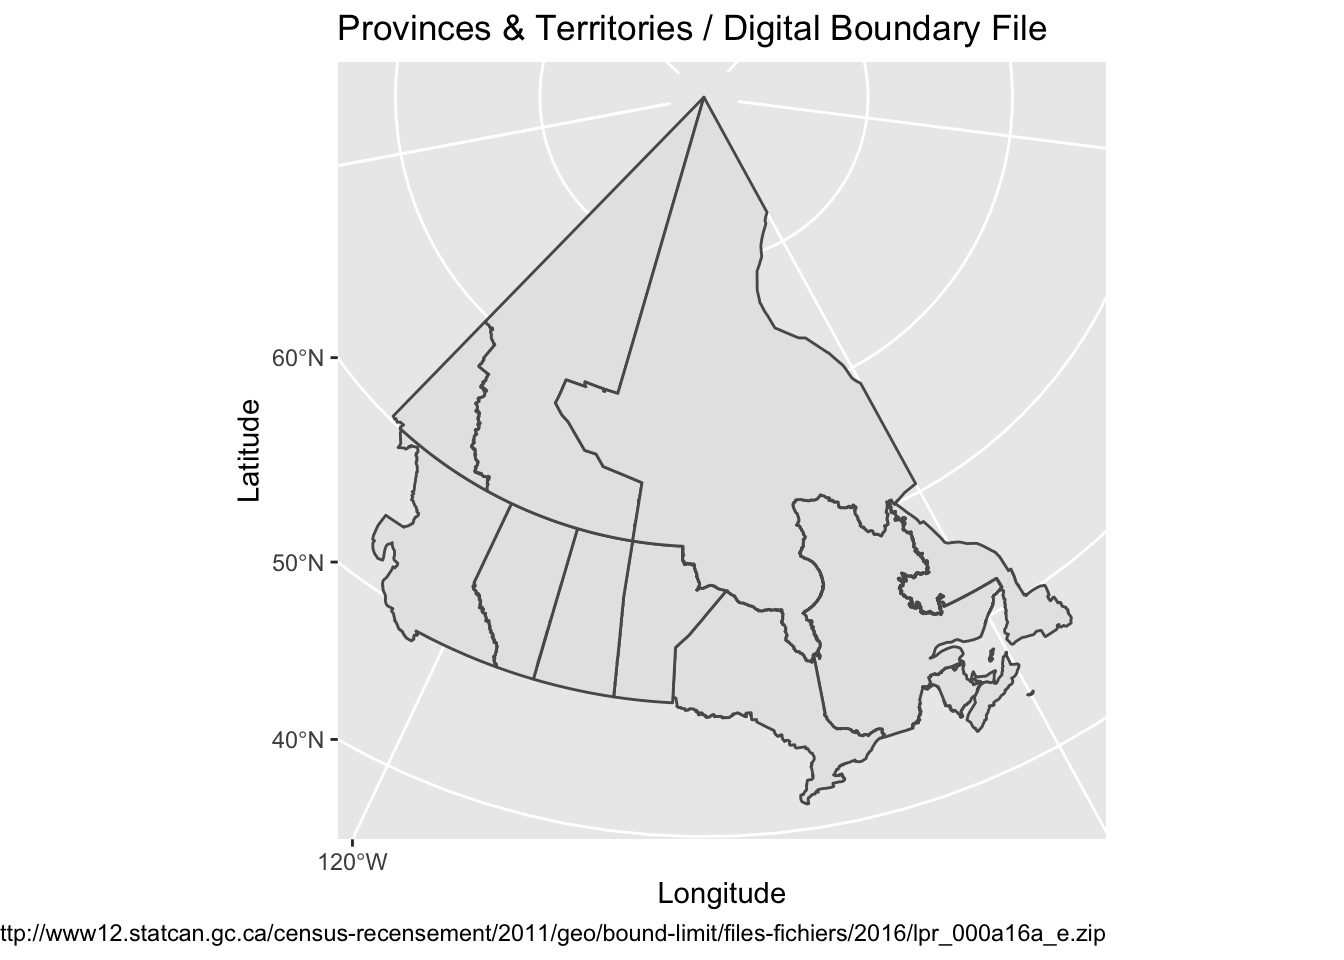
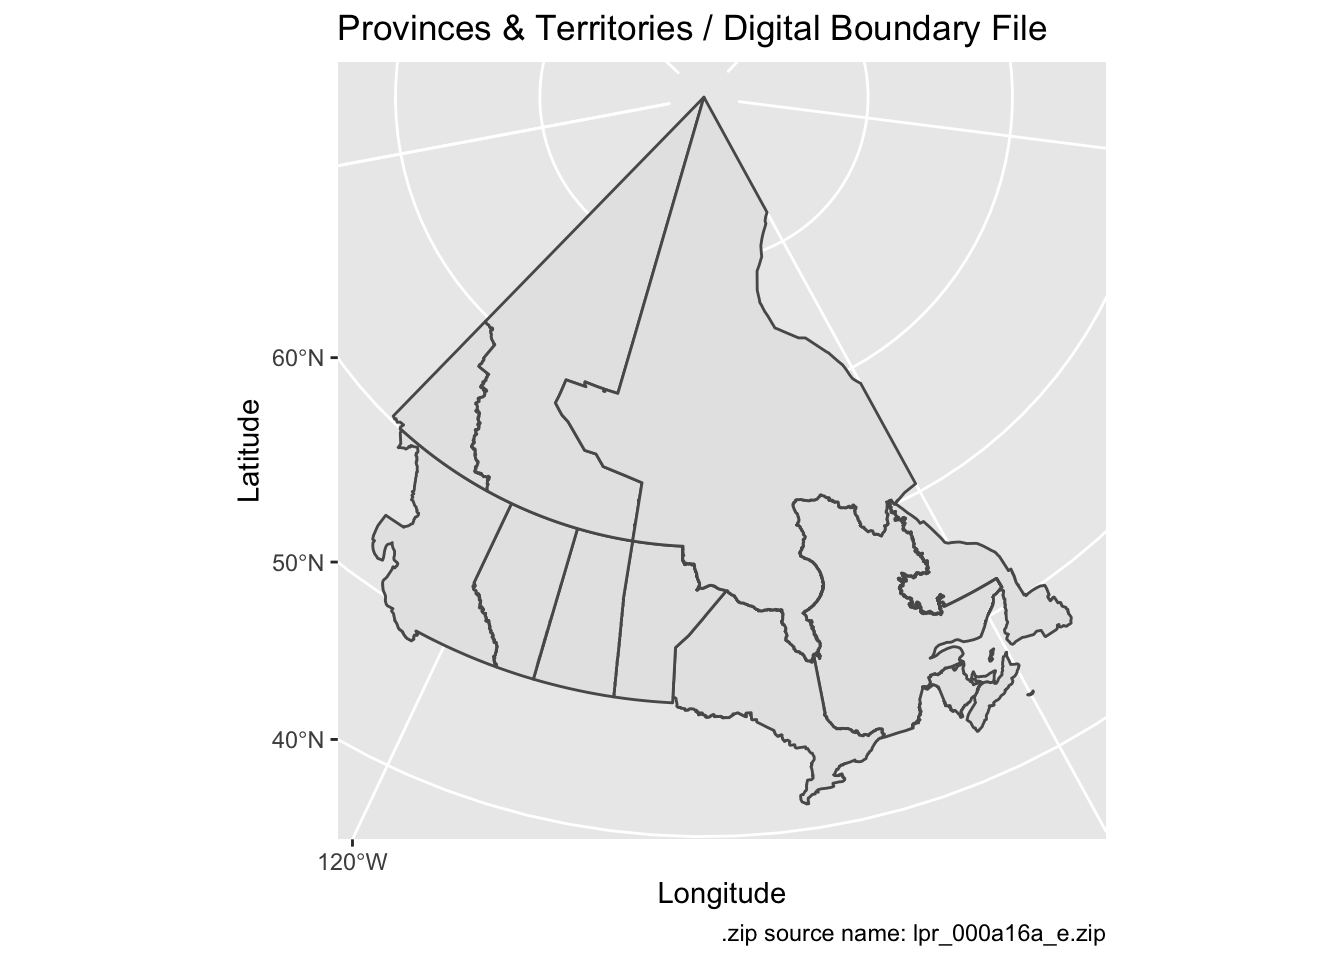
Improve readme

Changed region(s): [[0.0, 0.9688, 0.6875, 1.0]]

diff --git a/README.md b/README.md
@@ -63,34 +63,10 @@ default_shp
 #> [1] "http://www12.statcan.gc.ca/census-recensement/2011/geo/bound-limit/files-fichiers/2016/lpr_000a16a_e.zip"
 
 # then you can download it yourself, or use download_geography(url)
+shp_path <- download_geography(url)
 
-(shp_path <- download_geography(url))
-#> lpr_000a16a_e.zip already downloaded, returning filepath to unzipped .shp.
-#> [1] "/Users/jessetweedle/Documents/github/canmap/geography/lpr_000a16a_e/lpr_000a16a_e.shp"
-
-(provinces <- sf::read_sf(shp_path))
-#> Simple feature collection with 13 features and 6 fields
-#> geometry type:  MULTIPOLYGON
-#> dimension:      XY
-#> bbox:           xmin: 3658201 ymin: 658873 xmax: 9019157 ymax: 6083005
-#> epsg (SRID):    3347
-#> proj4string:    +proj=lcc +lat_1=49 +lat_2=77 +lat_0=63.390675 +lon_0=-91.86666666666666 +x_0=6200000 +y_0=3000000 +ellps=GRS80 +towgs84=0,0,0,0,0,0,0 +units=m +no_defs
-#> # A tibble: 13 x 7
-#>    PRUID PRNAME    PRENAME  PRFNAME  PREABBR PRFABBR                    geometry
-#>    <chr> <chr>     <chr>    <chr>    <chr>   <chr>            <MULTIPOLYGON [m]>
-#>  1 10    Newfound… Newfoun… Terre-N… N.L.    T.-N.-… (((7644465 2980078, 764886…
-#>  2 11    Prince E… Prince … Île-du-… P.E.I.  Î.-P.-… (((8427185 1638777, 842717…
-#>  3 12    Nova Sco… Nova Sc… Nouvell… N.S.    N.-É.   (((8525489 1790548, 852563…
-#>  4 13    New Brun… New Bru… Nouveau… N.B.    N.-B.   (((8188458 1707920, 818844…
-#>  5 24    Quebec /… Quebec   Québec   Que.    Qc      (((7143607 3010209, 714985…
-#>  6 35    Ontario   Ontario  Ontario  Ont.    Ont.    (((6378816 2295412, 637874…
-#>  7 46    Manitoba  Manitoba Manitoba Man.    Man.    (((6039657 2636304, 603962…
-#>  8 47    Saskatch… Saskatc… Saskatc… Sask.   Sask.   (((5248634 2767057, 524928…
-#>  9 48    Alberta   Alberta  Alberta  Alta.   Alb.    (((5228304 2767598, 522809…
-#> 10 59    British … British… Colombi… B.C.    C.-B.   (((4018904 3410247, 401943…
-#> 11 60    Yukon     Yukon    Yukon    Y.T.    Yn      (((4561932 4312865, 456400…
-#> 12 61    Northwes… Northwe… Territo… N.W.T.  T.N.-O. (((5689672 4324508, 568549…
-#> 13 62    Nunavut   Nunavut  Nunavut  Nvt.    Nt      (((7297737 3983558, 731665…
+# and use sf to read the shapefile.
+provinces <- sf::read_sf(shp_path)
 ```
 
 Then input into ggplot + sf:
@@ -100,7 +76,7 @@ ggplot() +
   geom_sf(data = provinces) +
   labs(title = "Provinces & Territories / Digital Boundary File", 
        x = "Longitude", y = "Latitude",
-       caption = paste0("Source: ", url))
+       caption = paste0(".zip source name: ", default_shp$filepath, ".zip"))
 ```
 
 <img src="man/figures/README-unnamed-chunk-2-1.png" width="100%" />
@@ -187,7 +163,22 @@ codes: `lpr_000a16a_e.zip` has the english province/territory maps and
 difference, AFAIK, is that the guide and geography names are in french
 in the french version.
 
-## Notes
+## Notes & Other Packages
+
+There are some other great packages to make Canadian maps\!
+
+  - [cancensus](https://github.com/mountainMath/cancensus) (R package
+    available from CRAN + github)
+  - [censusmapper.ca](censusmapper.ca) (from the same ppl as ^, but a
+    website)
+  - [rcanvec](https://github.com/paleolimbot/rcanvec) (V cool NTS maps,
+    good for small scales)
+
+And others probably\!
+[openstreetmap](https://cran.r-project.org/web/packages/OpenStreetMap/index.html)
+and [osmdata](https://github.com/ropensci/osmdata) and
+[leaflet](https://cran.r-project.org/web/packages/leaflet/index.html)
+are both useful as well.
 
 Please note that the ‘canmap’ project is released with a [Contributor
 Code of Conduct](.github/CODE_OF_CONDUCT.md). By contributing to this
